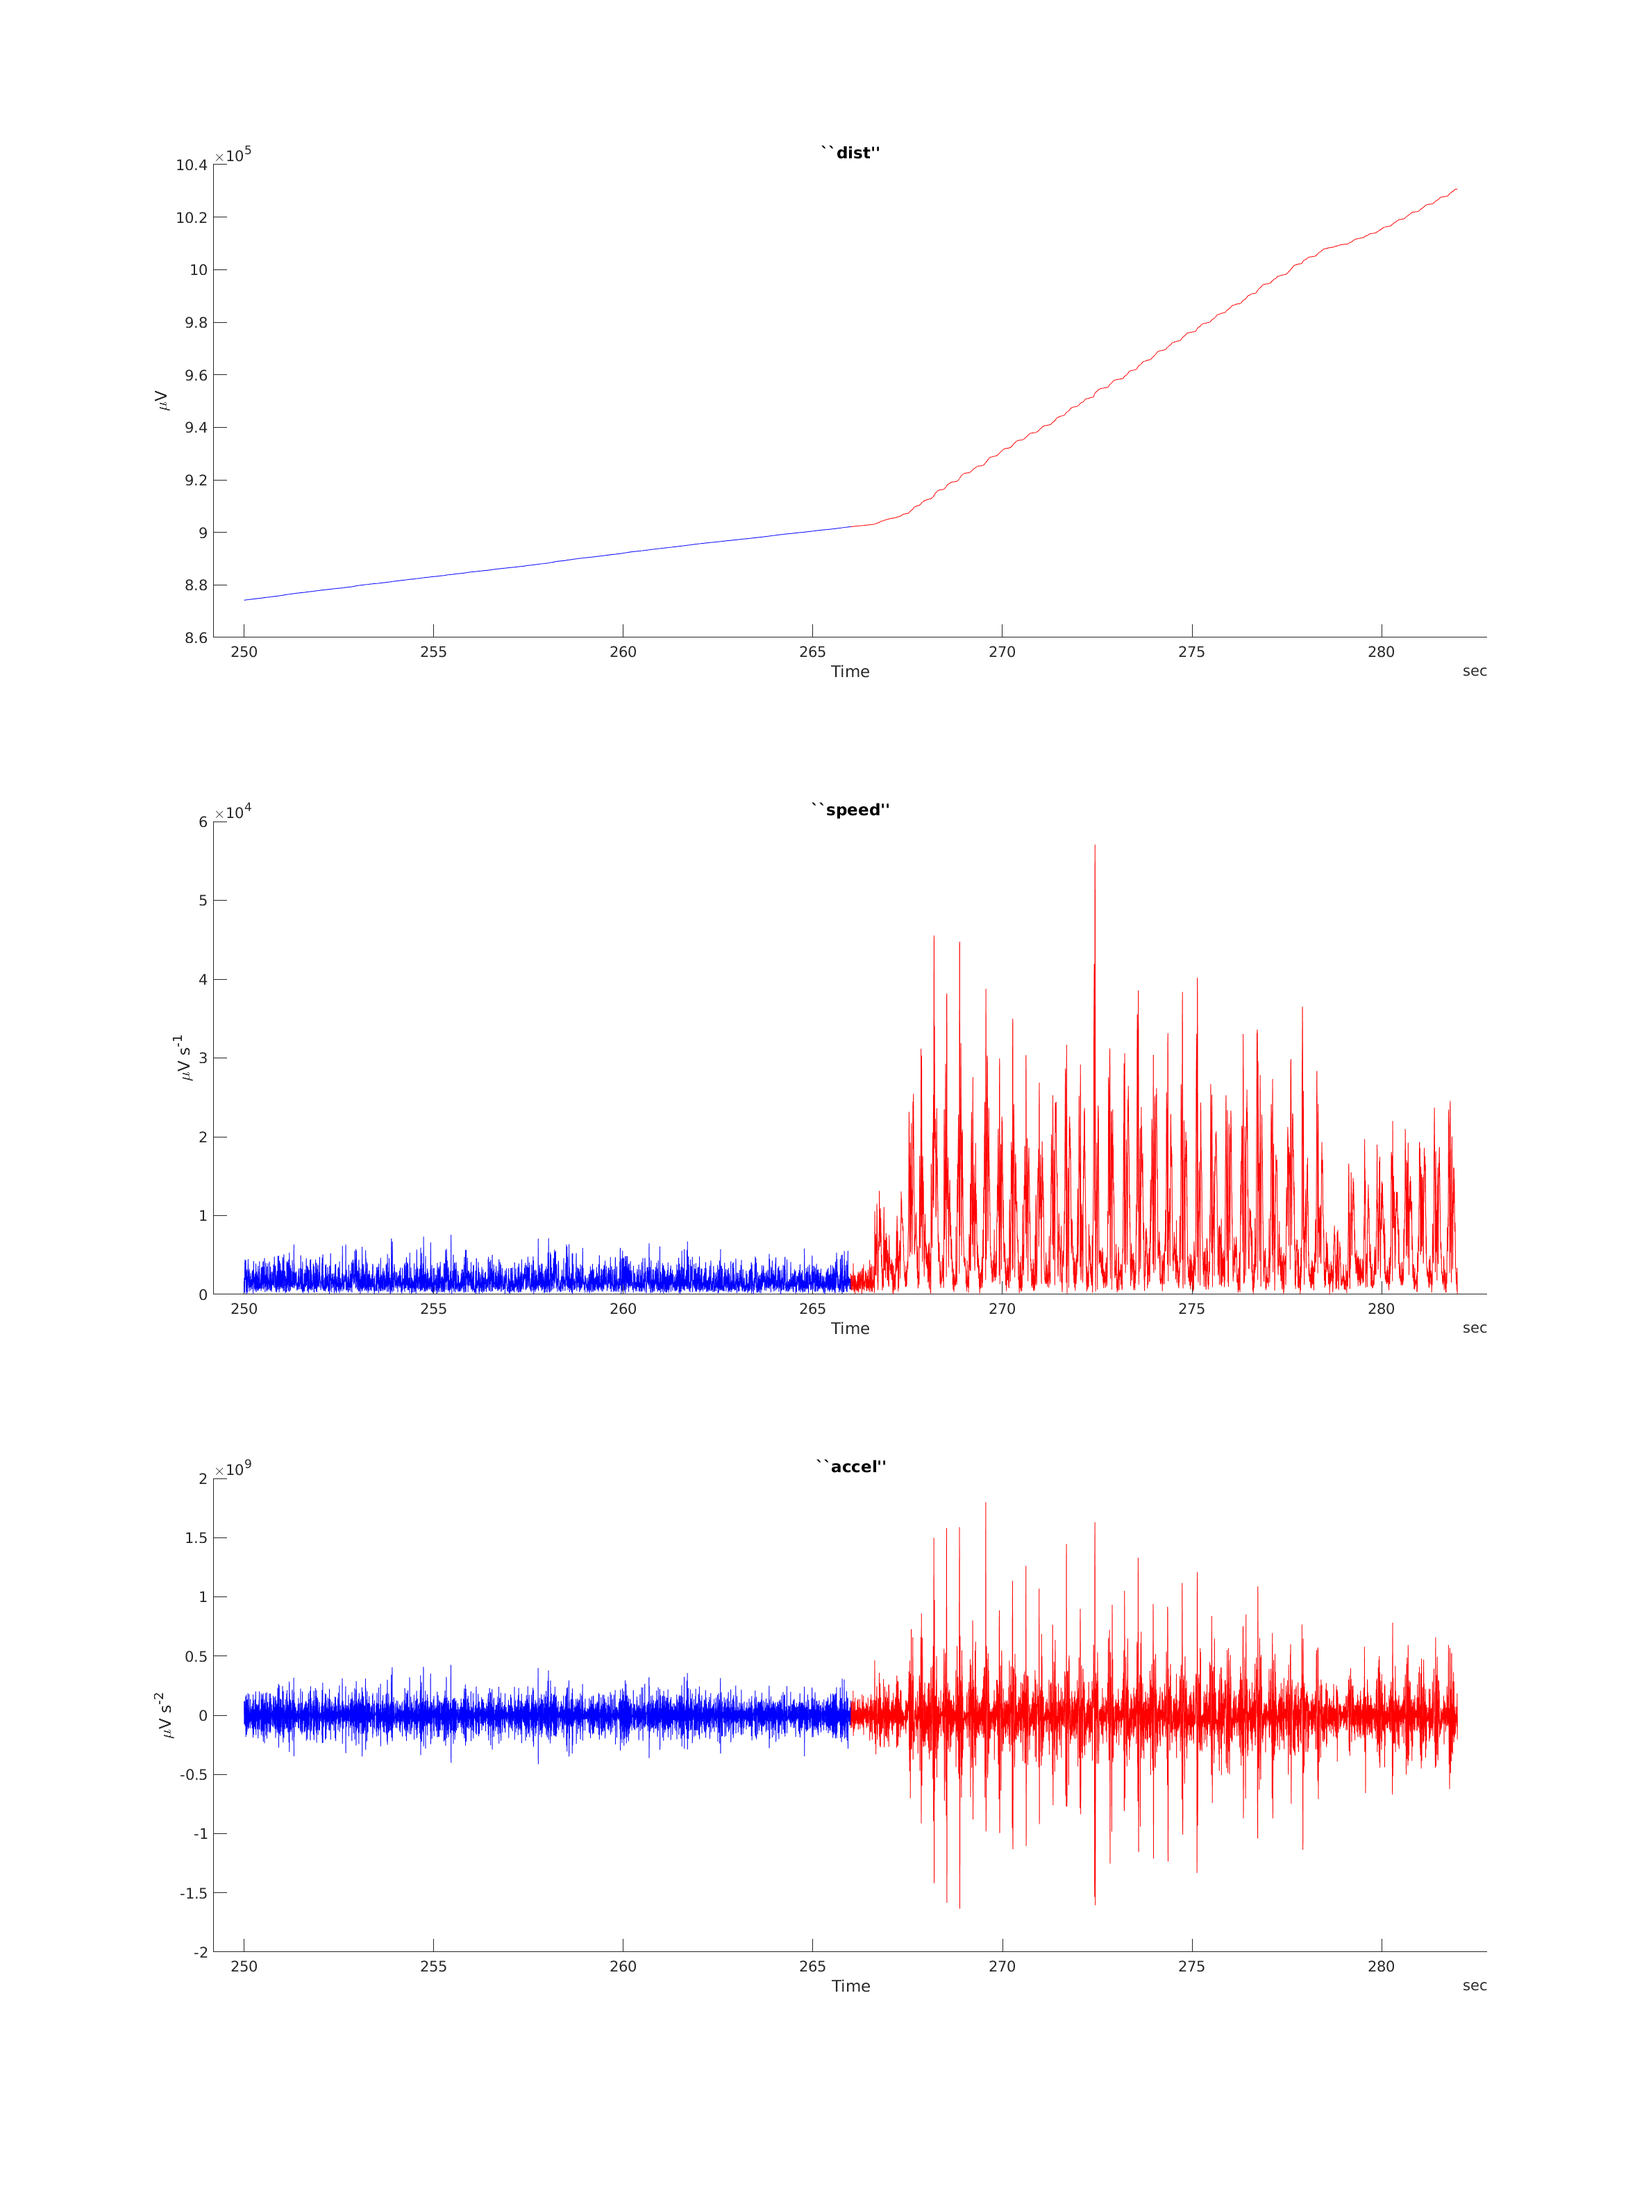
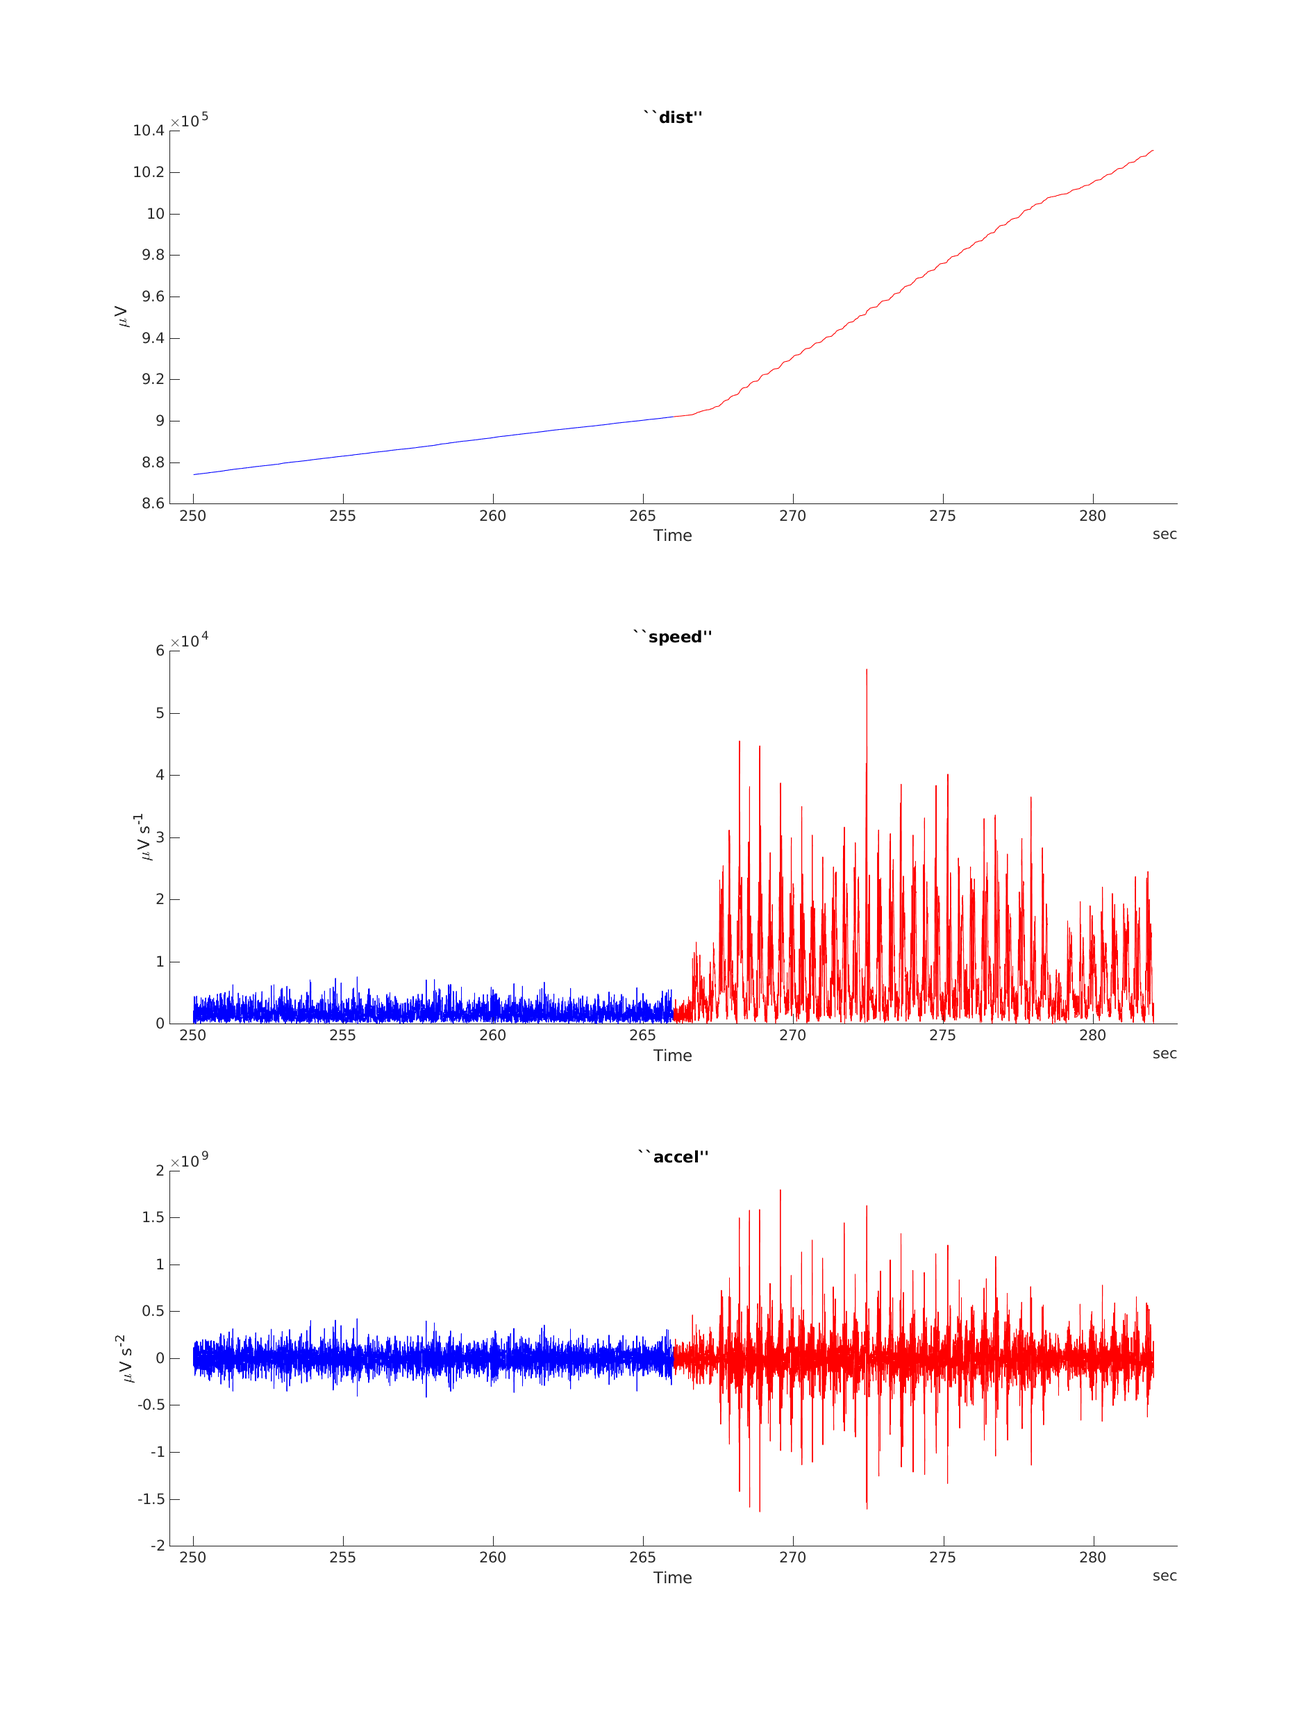
finished chaning sample point handling

diff --git a/src/MATLAB/eegdiffplot.m b/src/MATLAB/eegdiffplot.m
@@ -17,7 +17,7 @@ end
 
 % % Load file %%%%%%%%
 %
-[FZdata, CZdata, sample1, sample2, freq, hdr, ~] = loadfile(fileName, timeSpan);
+[FZdata, CZdata, sample, freq, hdr, ~] = loadfile(fileName, timeSpan);
 
 
 
@@ -29,20 +29,24 @@ end
 
 % %% Calculate spectrum for each segment %%%%%%%%
 %
-[FZfq1, FZspect1] = calcSpect(FZdata(sample1), freq);
-[FZfq2, FZspect2] = calcSpect(FZdata(sample2), freq);
-[CZfq1, CZspect1] = calcSpect(CZdata(sample1), freq);
-[CZfq2, CZspect2] = calcSpect(CZdata(sample2), freq);
+subsample1 = sample(sample <= freq*fix(timeSpan(2)));
+subsample2 = sample(sample >  freq*fix(timeSpan(2)));
+
+[FZfq1, FZspect1] = calcSpect(FZdata(subsample1), freq);
+[FZfq2, FZspect2] = calcSpect(FZdata(subsample2), freq);
+
+[CZfq1, CZspect1] = calcSpect(CZdata(subsample1), freq);
+[CZfq2, CZspect2] = calcSpect(CZdata(subsample2), freq);
 
 % %% Calculate periodograms (wavelets) TODO
 %
-FZspectrogram1 = calcSpect(FZdata([sample1, sample2]), freq);
-CZspectrogram1 = calcSpect(CZdata([sample1, sample2]), freq);
+% FZspectrogram1 = calcSpect(FZdata([sample1, sample2]), freq);
+% CZspectrogram1 = calcSpect(CZdata([sample1, sample2]), freq);
 
 % %% Calculate Quadratic variation %%%%%%%%
 %
-% FZquadvar = calcQuadvar(FZdata);
-% CZquadvar = calcQuadvar(CZdata);
+FZquadvar = calcQuadvar(FZdata, sample);
+CZquadvar = calcQuadvar(CZdata, sample);
 
 % %% Save data to mat files %%%%%%%%
 %
@@ -54,7 +58,7 @@ end
 save(...
     strcat(dataDir, dataName), ...
     'fileName', 'FZdata', 'CZdata', ...
-    'freq', 'sample1', 'sample2', ...
+    'freq', 'sample', 'timeSpan', ...
     'disttrav', 'speed', 'accel', ...
     'FZfq1', 'FZspect1', 'FZfq2', 'FZspect2', ...
     'CZfq1', 'CZspect1', 'CZfq2', 'CZspect2', ...
@@ -68,23 +72,23 @@ save(...
 %
 % %% Phase plot %%%%%%%%
 %
-plotPhase(fileName,timeSpan,outputDir);
+plotPhase(fileName, timeSpan, outputDir);
 
 % %% Trace plot %%%%%%%%
 %
-plotTrace(fileName,timeSpan,outputDir)
+plotTrace(fileName, timeSpan, outputDir);
 
 % %% Motion plot %%%%%%%%
 %
-plotMotion(fileName, timeSpan, outputDir)
+plotMotion(fileName, timeSpan, outputDir);
 
 % %% Spect plot %%%%%%%%
 %
-plotSpects(fileName, timeSpan, outputDir)
+plotSpects(fileName, timeSpan, outputDir);
 
 % %% Quadvar plot %%%%%%%%
 %
-plotQuadvar(fileName, timeSpan, outputDir)
+% plotQuadvar(fileName, timeSpan, outputDir);
 
 
 end

diff --git a/src/MATLAB/plotMotion.m b/src/MATLAB/plotMotion.m
@@ -14,11 +14,14 @@ plotwidth  = 900;  % Width of figure
 plotheight = 1200; % Height of figure (by default in pixels)
 set(h, 'Position', [plotx ploty plotwidth plotheight]);
 
+subsample1 = sample(sample <= freq*fix(timeSpan(2)));
+subsample2 = sample(sample >  freq*fix(timeSpan(2)));
+
 % Plot distance
 subplot(3, 1, 1);
 hold on
-plot(seconds(sample1/freq), disttrav(sample1), 'b');
-plot(seconds(sample2/freq), disttrav(sample2), 'r');
+plot(seconds(subsample1/freq), disttrav(subsample1), 'b');
+plot(seconds(subsample2/freq), disttrav(subsample2), 'r');
 hold off
 % write title and axis labels
 title("``dist''"); xlabel("Time"); ylabel("\muV");
@@ -26,8 +29,8 @@ title("``dist''"); xlabel("Time"); ylabel("\muV");
 % Plot speed
 subplot(3, 1, 2);
 hold on
-plot(seconds(sample1/freq), speed(sample1), 'b');
-plot(seconds(sample2/freq), speed(sample2), 'r');
+plot(seconds(subsample1/freq), speed(subsample1), 'b');
+plot(seconds(subsample2/freq), speed(subsample2), 'r');
 hold off
 % write title and axis labels
 title("``speed''"); xlabel("Time"); ylabel("\muV s^{-1}");
@@ -35,8 +38,8 @@ title("``speed''"); xlabel("Time"); ylabel("\muV s^{-1}");
 % Plot acceleration
 subplot(3, 1, 3);
 hold on
-plot(seconds(sample1/freq), accel(sample1), 'b');
-plot(seconds(sample2(1:end-1)/freq), accel(sample2(1:end-1)), 'r');
+plot(seconds(subsample1/freq), accel(subsample1), 'b');
+plot(seconds(subsample2(1:end-1)/freq), accel(subsample2(1:end-1)), 'r');
 hold off
 % write title and axis labels
 title("``accel''"); xlabel("Time"); ylabel("\muV s^{-2}");

diff --git a/src/MATLAB/plotQuadvar.m b/src/MATLAB/plotQuadvar.m
@@ -13,17 +13,21 @@ plotwidth  = 900;  % Width of figure
 plotheight = 700;  % Height of figure (by default in pixels)
 set(h, 'Position', [plotx ploty plotwidth plotheight]);
 
+iter = 1
+sample = FZquadvar{iter,2};
+subsample1 = sample(sample <= freq*fix(timeSpan(2)));
+subsample2 = sample(sample >  freq*fix(timeSpan(2)));
 
 
-% Fz trace
+% Fz QV
 subplot(2, 1, 1);
 hold on;
 plot( ...
-    seconds(sample1/freq), FZquadvar(sample1), ...
+    seconds(subsample1/freq), FZquadvar{iter,1}(subsample1), ...
     'b','DurationTickFormat','hh:mm:ss' ...
 );
 plot( ...
-    seconds(sample2/freq), FZquadvar(sample2), ...
+    seconds(subsample2/freq), FZquadvar{iter,1}(subsample2), ...
     'r','DurationTickFormat','hh:mm:ss' ...
 );
 hold off;
@@ -34,15 +38,15 @@ xlabel("Time");
 ylabel("Fz-ref Quadratic variation (\muV^2)");
 
 
-% Cz trace
+% Cz QV
 subplot(2, 1, 2);
 hold on;
 plot( ...
-    seconds(sample1/freq), CZquadvar(sample1), ...
+    seconds(subsample1/freq), CZquadvar{iter,1}(subsample1), ...
     'b','DurationTickFormat','hh:mm:ss' ...
 );
 plot( ...
-    seconds(sample2/freq), CZquadvar(sample2), ...
+    seconds(subsample2/freq), CZquadvar{iter,1}(subsample2), ...
     'r','DurationTickFormat','hh:mm:ss' ...
 );
 hold off;
@@ -57,8 +61,6 @@ if ~exist(plotDir, 'dir')
     mkdir(plotDir)
 end
 saveas(h,strcat(plotDir, plotName));
-
-keyboard;
 
 
 

diff --git a/src/MATLAB/plotTrace.m b/src/MATLAB/plotTrace.m
@@ -14,15 +14,18 @@ plotwidth  = 900;  % Width of figure
 plotheight = 700;  % Height of figure (by default in pixels)
 set(h, 'Position', [plotx ploty plotwidth plotheight]);
 
+subsample1 = sample(sample <= freq*fix(timeSpan(2)));
+subsample2 = sample(sample >  freq*fix(timeSpan(2)));
+
 % Fz trace
 subplot(2, 1, 1);
 hold on;
 plot( ...
-    seconds(sample1/freq), FZdata(sample1), ...
+    seconds(subsample1/freq), FZdata(subsample1), ...
     'b','DurationTickFormat','hh:mm:ss' ...
 );
 plot( ...
-    seconds(sample2/freq), FZdata(sample2), ...
+    seconds(subsample2/freq), FZdata(subsample2), ...
     'r','DurationTickFormat','hh:mm:ss' ...
 );
 hold off;
@@ -37,11 +40,11 @@ ylabel("Fz-ref (\muV)");
 subplot(2, 1, 2);
 hold on;
 plot( ...
-    seconds(sample1/freq), CZdata(sample1), ...
+    seconds(subsample1/freq), CZdata(subsample1), ...
     'b','DurationTickFormat','hh:mm:ss' ...
 );
 plot( ...
-    seconds(sample2/freq), CZdata(sample2), ...
+    seconds(subsample2/freq), CZdata(subsample2), ...
     'r','DurationTickFormat','hh:mm:ss' ...
 );
 hold off;

diff --git a/src/MATLAB/plotPhase.m b/src/MATLAB/plotPhase.m
@@ -13,20 +13,23 @@ plotwidth  = 900;  % Width of figure
 plotheight = 900;  % Height of figure (by default in pixels)
 set(h, 'Position', [plotx ploty plotwidth plotheight]);
 
+subsample1 = sample(sample <= freq*fix(timeSpan(2)));
+subsample2 = sample(sample >  freq*fix(timeSpan(2)));
+
 axis square;
 hold on;
-plot(FZdata(sample1), CZdata(sample1), 'b:');
-plot(FZdata(sample2), CZdata(sample2), 'r:');
+plot(FZdata(subsample1), CZdata(subsample1), 'b:');
+plot(FZdata(subsample2), CZdata(subsample2), 'r:');
 hold off;
 
 % normalise plotting region
 plotmin = min( ...
-    min(FZdata([sample1, sample2])), ...
-    min(CZdata([sample1, sample2])) ...
+    min(FZdata([subsample1, subsample2])), ...
+    min(CZdata([subsample1, subsample2])) ...
 );
 plotmax = max( ...
-    max(FZdata([sample1, sample2])), ...
-    max(CZdata([sample1, sample2])) ...
+    max(FZdata([subsample1, subsample2])), ...
+    max(CZdata([subsample1, subsample2])) ...
 );
 axis([plotmin, plotmax, plotmin, plotmax]);
 grid on;

diff --git a/src/MATLAB/calcQuadvar.m b/src/MATLAB/calcQuadvar.m
@@ -1,17 +1,18 @@
-function [quadvars samples] = calcQuadvar(data, sample)
+function quadvar = calcQuadvar(data, sample)
 % Calculates quadratic variation process for a variety of sample rates
 % Plot results with
-%   plot(seconds(sample{iter}/freq), quadvars{iter})
+%   sample = quadvar{iter,2}
+%   plot(seconds(sample/freq), quadvar{iter,1}(sample))
 
 sRatefactors = [1/16 1/8 1/4 1/2 1];
 
-for iter = 1:length(sRates)
+for iter = 1:length(sRatefactors)
 
     sfact = sRatefactors(iter);
 
     % downsample the data
-    downsample = 1:round(1/sfact):length(sample);
-    samples{iter} = sample(downsample);
+    downsample = [1:round(1/sfact):length(sample)];
+    samples{iter,2} = sample(downsample);
 
     tmpdata = data(downsample);
 
@@ -21,8 +22,7 @@ for iter = 1:length(sRates)
         result(ind) = result(ind-1) + (tmpdata(ind) - tmpdata(ind-1)).^2;
     end
 
-
-    quadvar{iter} = result;
+    quadvar{iter,1} = result;
 
 end
 

diff --git a/src/MATLAB/loadfile.m b/src/MATLAB/loadfile.m
@@ -1,4 +1,4 @@
-function [FZdata, CZdata, sample1, sample2, freq, hdr, record] = loadfile(fileName, timeSpan)
+function [FZdata, CZdata, sample, freq, hdr, record] = loadfile(fileName, timeSpan)
 % Function that identifies fileName and loads EDF snippet
 %
 
@@ -35,12 +35,8 @@ end
 freq = FZfreq;
 
 % get sample points of requested timeSpan
-sample1 = (...
+sample = (...
     max(fix(freq*timeSpan(1)),1)):...
-    fix(freq*timeSpan(2)...
-);
-sample2 = (...
-    max(fix(freq*timeSpan(2)),1)):...
     fix(freq*timeSpan(3)...
 );
 
